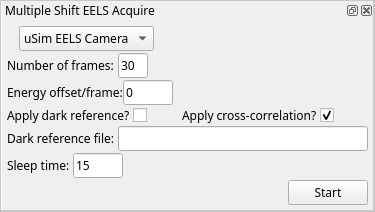
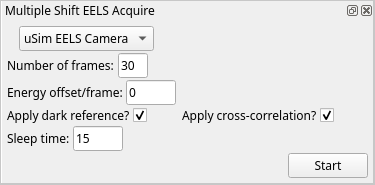
Removing the dark reference filepath
Commenting out the filepath entry box in the UI panel and leaving a temporary blank placeholder instead of a user-defined filepath.
Modifying the user guide image and text to reflect the modified UI panel.

diff --git a/nionswift_plugin/nion_instrumentation_ui/MultipleShiftEELSAcquire.py b/nionswift_plugin/nion_instrumentation_ui/MultipleShiftEELSAcquire.py
@@ -389,6 +389,7 @@ class MultipleShiftEELSAcquireControlView(Panel.Panel):
         self.energy_offset.text = "0"
 
         self.dark_ref_choice = self.ui.create_check_box_widget()
+        self.dark_ref_choice.checked = True
         self.cross_cor_choice = self.ui.create_check_box_widget()
         self.cross_cor_choice.checked = True
         self.dark_file = self.ui.create_line_edit_widget(
@@ -448,7 +449,8 @@ class MultipleShiftEELSAcquireControlView(Panel.Panel):
             float(self.energy_offset.text),
             int(self.sleep_time.text),
             bool(self.dark_ref_choice.checked),
-            str(self.dark_file.text),
+            '',  # stand-in dark reference
+#            str(self.dark_file.text),
             bool(self.cross_cor_choice.checked)
             )
 
@@ -462,7 +464,7 @@ class MultipleShiftEELSAcquireControlView(Panel.Panel):
         column.add(dialog_row_f)
         column.add(dialog_row_e)
         column.add(dialog_row_d)
-        column.add(dialog_row_df)
+#        column.add(dialog_row_df)
         column.add(dialog_row_s)
         column.add(dialog_row_a)
         column.add_stretch()

diff --git a/docs/userguide.rst b/docs/userguide.rst
@@ -115,7 +115,7 @@ The checkboxes in the bottom row allow you to configure how the data will be ret
 
 Using the Multiple Shift Acquire Panel
 --------------------------------------
-This plugin allows you to acquire a stack of spectra with energy offsets between each frame. A spectrum stack of a chosen number of frames can be acquired, have the dark reference subtracted, and then aligned through automatic cross-correlation and summed. The integration time for each frame is taken from the current set-up for the camera. The plug-in returns a spectrum stack, the aligned and summed spectra, and a line profile over a cropped region of the aligned and summed spectra.
+This plugin allows you to acquire a stack of spectra with energy offsets between each frame. A spectrum stack of a chosen number of frames can be acquired, have the dark reference subtracted, and then be aligned through automatic cross-correlation and summed. The integration time for each frame is taken from the current set-up for the camera. The plug-in returns a spectrum stack, the aligned and summed spectra, and a line profile over a cropped region of the aligned and summed spectra.
 
 Main Window
 ^^^^^^^^^^^
@@ -127,19 +127,17 @@ The main control panel for the plug-in can be found in the "Window" menu.
 
 The control panel allows the following options for the user:
 
-- Dropdown menu: The camera to use for the stack is chosen by the drop-down menu (in the image shown, "uSim EELS Camera" is chosen). 
+- Dropdown menu: The camera to use for the stack acquisition is chosen by the drop-down menu (in the image shown, "uSim EELS Camera" is chosen). 
 
 - *Number of frames:* allows the user to choose the number of frames to acquire and sum by entering a positive integer into the textbox.
 
 - *Energy offset/frame* allows the user to enter a number (integer or decimal) in the "Energy offset/frame" textbox: each successive spectrum will be offset by the input value in eV. If 0, no energy offset will be applied and the camera will not pause between acquisitions.
 
-- *Apply dark reference?* allows the user to choose whether or not a dark reference should be applied to the acquired spectra. If the box is ticked, the program will apply a dark reference; if the box is not ticked, no dark reference will be applied to the acquired data (for example, this might be desirable when acquiring a dark reference to save or to characterize the detector response). The dark reference to be applied may be acquired (averaging over the same number of frames given in *Number of frames*) or loaded from a file, depending on whether a path to a valid file is given in the *Dark reference file:* text entry box.
+- *Apply dark reference?* allows the user to choose whether or not a dark reference should be applied to the acquired spectra. If the box is ticked, the program will blank the beam, pause (for *sleep time*) to let the afterglow die down, and then acquire and apply a dark reference with the same camera settings. If the box is not ticked, no dark reference will be applied to the acquired data (for example, this might be desirable in order to characterize the detector response).
 
-- *Apply cross-correlation?* is a checkbox that allows the user to choose whether or not the spectrum stack will be aligned before summing. If the box is ticked, the cross-correlation of each spectrum will be calculated relative to the first spectrum, and the stack will be aligned and then summed. If the box is not ticked, no cross-correlation will be calculated and the stack will not be aligned before summing (*e.g.* desirable when acquiring a dark reference or detector response).
+- *Apply cross-correlation?* is a checkbox that allows the user to choose whether or not the spectrum stack will be aligned before summing. If the box is ticked, the cross-correlation of each spectrum will be calculated relative to the first spectrum, and the stack will be aligned and then summed. If the box is not ticked, no cross-correlation will be calculated and the stack will not be aligned before summing.
 
-- *Dark reference file:* is a text entry box that allows the user to provide a filepath to a saved file that holds data representing the dark reference to be applied. It is the user's responsibility to make sure that the dark reference was acquired with the same acquisition time as the stack. If no file is provided or the file does not hold valid data, and the *Apply dark reference?* box is ticked, then a dark reference will be acquired automatically after blanking the beam. If the *Apply dark reference?* box is unticked, any file included in this box will be ignored and no dark reference will be applied.
-
-- *Sleep time* allows the user to enter a positive number. The detector will pause for this number of seconds in between frames if a non-zero energy offset is given, to allow the afterglow from the previous frame to die away. If a dark reference is acquired, the detector will also pause for this number of seconds after blanking the beam and before acquiring dark reference frames.
+- *Sleep time* allows the user to enter a positive number. If a dark reference is acquired, the detector will pause for this number of seconds after blanking the beam and before acquiring dark reference frames. If a non-zero energy offset is given, this value also represents the time-out for confirmation from the detector that an energy shift has been applied.
 
 .. _acquisition-recorder-panel:
 
